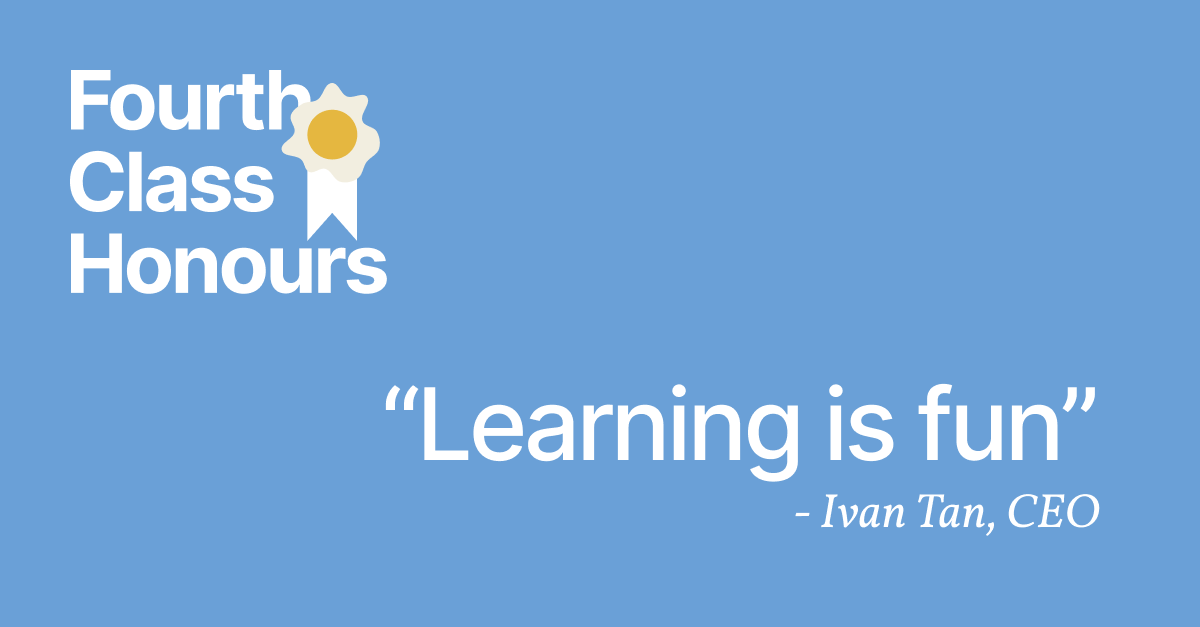
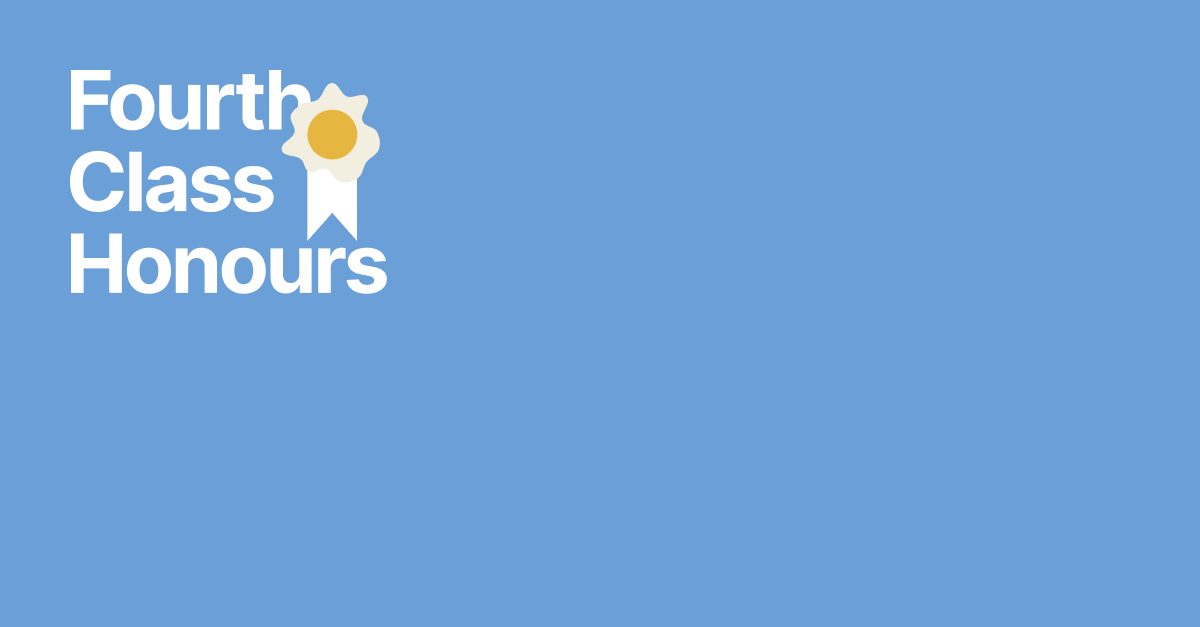
chore: remove ivan name (#9)
* chore: use organization description solely from github

* chore: swap out og img

Changed region(s): [[0.3083, 0.6061, 0.925, 0.7879], [0.6783, 0.7879, 0.925, 0.8485]]

diff --git a/src/components/SEO.tsx b/src/components/SEO.tsx
@@ -14,7 +14,7 @@ const SEO: React.FC<Props> = function(props) {
   const { description, title } = props;
   const { siteMetadata } = config;
 
-  const metaDescription = description || siteMetadata.description;
+  const metaDescription = description ?? '';
 
   const jsonLDSchema = {
     '@context': 'https://schema.org',

diff --git a/src/config.tsx b/src/config.tsx
@@ -1,8 +1,6 @@
 const config = {
   siteMetadata: {
     title: 'Fourth Class Honours',
-    description:
-      'We live and breathe by the mantra of our ingenious CEO Ivan Tan, "Learning is fun".',
     author: `@fourthclasshonours`,
     siteUrl: 'https://fourthclasshonours.com',
   },
